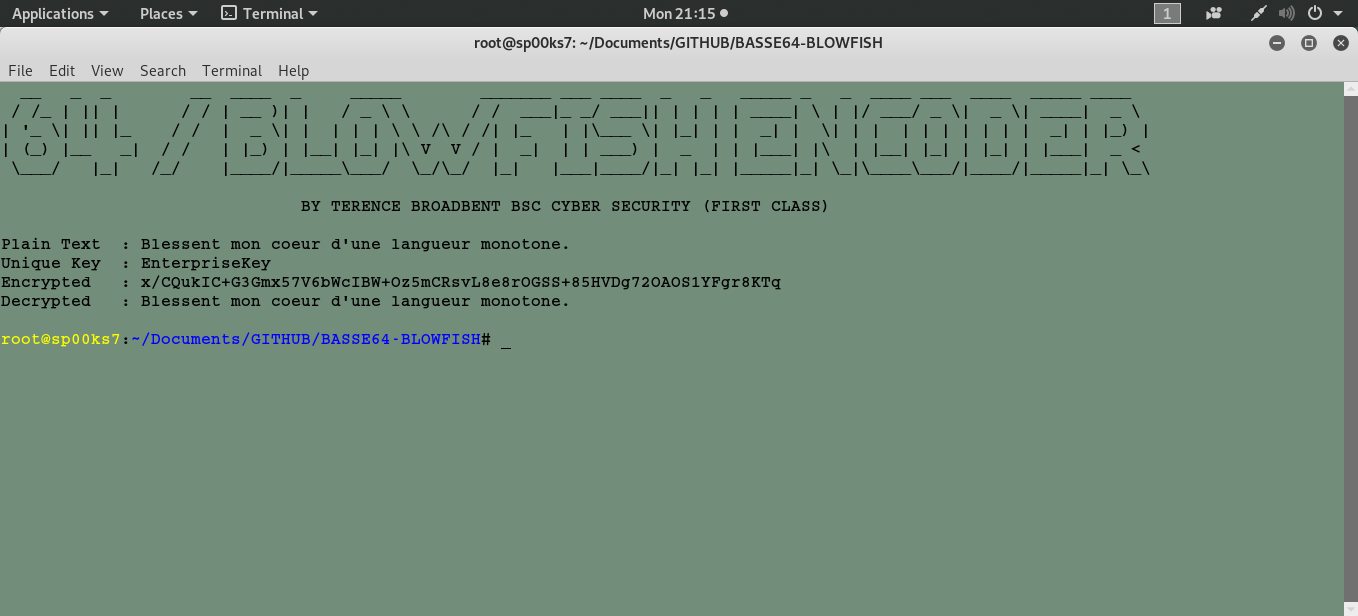
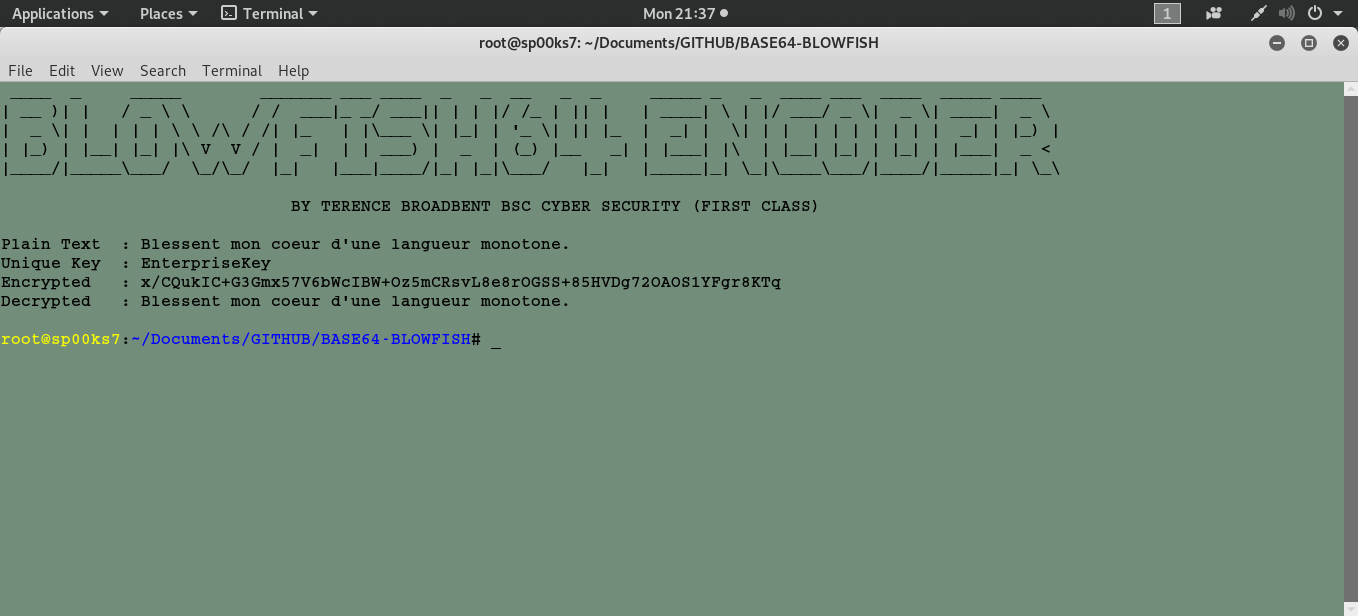
changes

diff --git a/base64_blowfish.py b/base64_blowfish.py
@@ -27,13 +27,13 @@ from Crypto.Cipher import Blowfish
 # -------------------------------------------------------------------------------------
 
 os.system("clear")
-print "  __   _  _        __  ____  _     _____        _______ ___ ____  _   _   _____ _   _  ____ ___  ____  _____ ____   "
-print " / /_ | || |      / / | __ )| |   / _ \ \      / /  ___|_ _/ ___|| | | | | ____| \ | |/ ___/ _ \|  _ \| ____|  _ \  "
-print "| '_ \| || |_    / /  |  _ \| |  | | | \ \ /\ / /| |_   | |\___ \| |_| | |  _| |  \| | |  | | | | | | |  _| | |_) | "
-print "| (_) |__   _|  / /   | |_) | |__| |_| |\ V  V / |  _|  | | ___) |  _  | | |___| |\  | |__| |_| | |_| | |___|  _ <  "
-print " \___/   |_|   /_/    |____/|_____\___/  \_/\_/  |_|   |___|____/|_| |_| |_____|_| \_|\____\___/|____/|_____|_| \_\ "
-print "                                                                                                                    "
-print "                              BY TERENCE BROADBENT BSC CYBER SECURITY (FIRST CLASS)                               \n"
+print " ____  _     _____        _______ ___ ____  _   _  __   _  _     _____ _   _  ____ ___  ____  _____ ____   " 
+print "| __ )| |   / _ \ \      / /  ___|_ _/ ___|| | | |/ /_ | || |   | ____| \ | |/ ___/ _ \|  _ \| ____|  _ \  "
+print "|  _ \| |  | | | \ \ /\ / /| |_   | |\___ \| |_| | '_ \| || |_  |  _| |  \| | |  | | | | | | |  _| | |_) | "
+print "| |_) | |__| |_| |\ V  V / |  _|  | | ___) |  _  | (_) |__   _| | |___| |\  | |__| |_| | |_| | |___|  _ <  "
+print "|____/|_____\___/  \_/\_/  |_|   |___|____/|_| |_|\___/   |_|   |_____|_| \_|\____\___/|____/|_____|_| \_\ "
+print "                                                                                                           "
+print "                             BY TERENCE BROADBENT BSC CYBER SECURITY (FIRST CLASS)                       \n"
 
 # ------------------------------------------------------------------------------------- 
 # AUTHOR  : Terence Broadbent                                                    

diff --git a/README.md b/README.md
@@ -1,11 +1,11 @@
 # BASE64/BLOWFISH ENCODER
 ### A simple python script file to create and read BASE64/BLOWFISH encoded text strings using a unique corporate Enterprise key.
 
-Usage: python base64-blowfish.py
+Usage: python base64_blowfish.py
 
 | LANGUAGE | FILENAME           | MD5 HASH                         |
 |------    |------              | -------                          |
-| python   | base64_blowfish.py | 855923d29defe38136f74e9152c1f1f6 |
+| python   | base64_blowfish.py | 621d913f9543faeefcba8a82f26a2743 |
 
 ## CONSOLE DISPLAY
 ![Screenshot](picture1.png)
